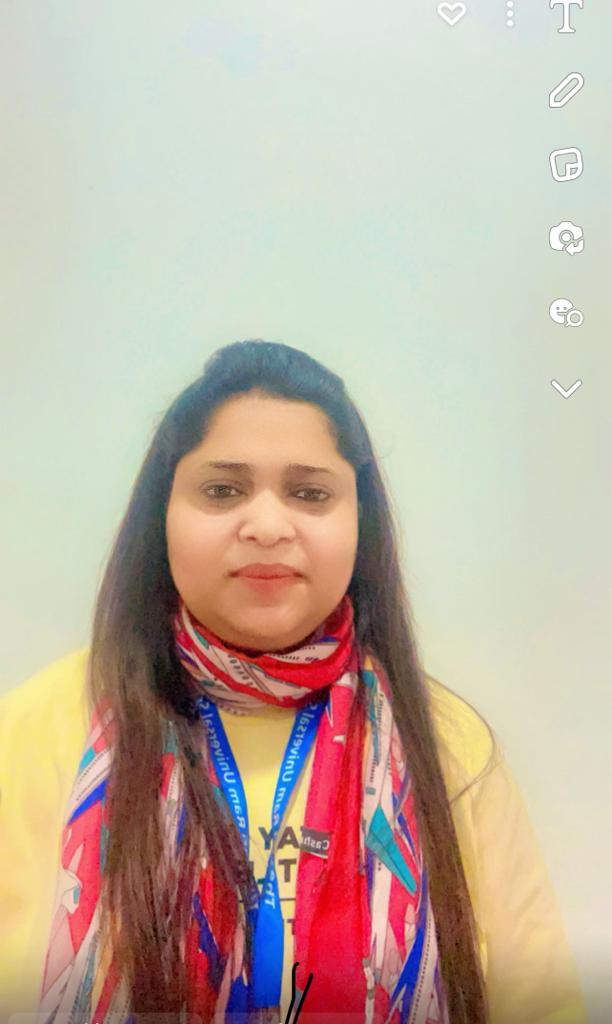
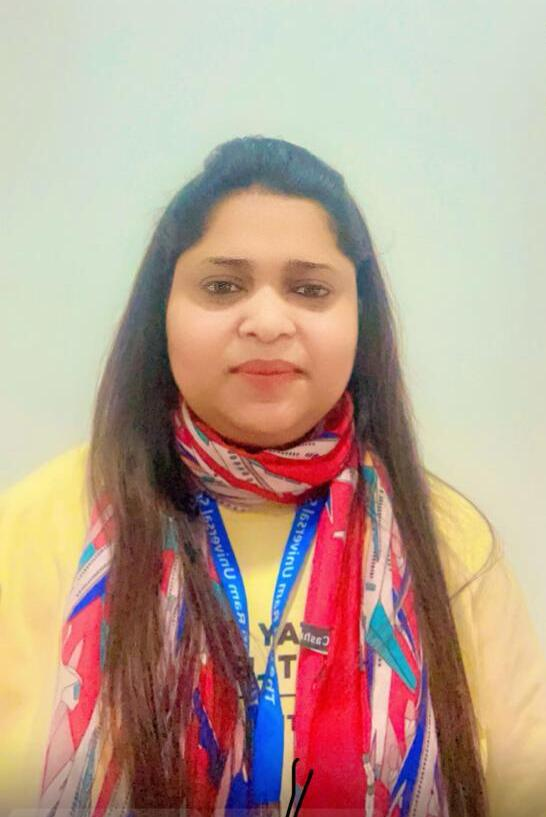
add description in founder section

diff --git a/index.html b/index.html
@@ -175,34 +175,39 @@
         #scrollUp:hover {
             color: #fff;
         }
-        #scrollUp, #back-top {
-  background: #3589f1;
-  height: 50px;
-  width: 50px;
-  right: 31px;
-  bottom: 18px;
-  position: fixed;
-  color: #fff;
-  font-size: 20px;
-  text-align: center;
-  border-radius: 50%;
-  line-height: 48px;
-  border: 2px solid transparent;
-  box-shadow: 0 0 10px 3px rgba(108, 98, 98, 0.2);
-}
 
-@media (max-width: 575px) {
-  /* line 433, ../../../sponDon TI/Running Project/259.Finance_HTML/assets/scss/_common.scss */
-  #scrollUp, #back-top {
-    right: 16px;
-  }
-}
+        #scrollUp,
+        #back-top {
+            background: #3589f1;
+            height: 50px;
+            width: 50px;
+            right: 31px;
+            bottom: 18px;
+            position: fixed;
+            color: #fff;
+            font-size: 20px;
+            text-align: center;
+            border-radius: 50%;
+            line-height: 48px;
+            border: 2px solid transparent;
+            box-shadow: 0 0 10px 3px rgba(108, 98, 98, 0.2);
+        }
 
-/* line 450, ../../../sponDon TI/Running Project/259.Finance_HTML/assets/scss/_common.scss */
-#scrollUp a i, #back-top a i {
-  display: block;
-  line-height: 50px;
-}
+        @media (max-width: 575px) {
+
+            /* line 433, ../../../sponDon TI/Running Project/259.Finance_HTML/assets/scss/_common.scss */
+            #scrollUp,
+            #back-top {
+                right: 16px;
+            }
+        }
+
+        /* line 450, ../../../sponDon TI/Running Project/259.Finance_HTML/assets/scss/_common.scss */
+        #scrollUp a i,
+        #back-top a i {
+            display: block;
+            line-height: 50px;
+        }
     </style>
     <link rel="stylesheet" href="https://cdnjs.cloudflare.com/ajax/libs/font-awesome/6.2.0/css/all.min.css"
         integrity="sha512-xh6O/CkQoPOWDdYTDqeRdPCVd1SpvCA9XXcUnZS2FmJNp1coAFzvtCN9BmamE+4aHK8yyUHUSCcJHgXloTyT2A=="
@@ -839,7 +844,7 @@
                                                             <li id="menu-item-1919"
                                                                 class="menu-item menu-item-type-post_type menu-item-object-page menu-item-home current_page_item  current-menu-item   menu-item-1919">
                                                                 <a href="index.html">Home</a>
-                                                                
+
                                                             </li>
                                                             <li id="menu-item-1385"
                                                                 class="menu-item menu-item-type-post_type menu-item-object-page page_item page-item-145  menu-item-1385">
@@ -858,12 +863,12 @@
                                                             <li id="menu-item-1790"
                                                                 class="menu-item menu-item-type-post_type menu-item-object-page  menu-item-1790">
                                                                 <a href="#">Programs</a>
-                                                                
+
                                                             </li>
                                                             <li id="menu-item-51"
                                                                 class="menu-item menu-item-type-post_type menu-item-object-page  menu-item-51">
                                                                 <a href="#">Resources</a>
-                                                                
+
                                                             </li>
                                                             <li id="menu-item-1847"
                                                                 class="menu-item menu-item-type-post_type menu-item-object-page megamenu-hide menu-item-1847">
@@ -2078,7 +2083,7 @@
                 &quot;items&quot;: 3                }                        }
                 }
     '>
-                                                                        
+
                                                                         <div class="item">
                                                                             <div class="team-card-three wow fadeInUp"
                                                                                 data-wow-duration='1500ms'
@@ -2087,7 +2092,8 @@
                                                                                 <div class="team-card-three__image">
                                                                                     <img decoding="async"
                                                                                         src="images/baljit_kaur.jpeg"
-                                                                                        alt="baljit_kaur" title="team-3-1"
+                                                                                        alt="baljit_kaur"
+                                                                                        title="team-3-1"
                                                                                         style="height: 400px;">
                                                                                 </div>
                                                                                 <!-- /.team-card-three__image -->
@@ -2098,7 +2104,8 @@
                                                                                     <!-- /.team-card-three__title -->
                                                                                     <p
                                                                                         class="team-card-three__normal__designation">
-                                                                                        Communication and Language Trainer </p>
+                                                                                        Communication and Language
+                                                                                        Trainer </p>
                                                                                     <!-- /.team-card-three__designation -->
                                                                                     <div
                                                                                         class="team-card-three__normal__social">
@@ -2114,7 +2121,8 @@
                                                                                     <!-- /.team-card-three__title -->
                                                                                     <p
                                                                                         class="team-card-three__designation">
-                                                                                        Communication and Language Trainer
+                                                                                        Communication and Language
+                                                                                        Trainer
                                                                                     </p>
                                                                                     <p
                                                                                         class="team-card-three__designation">
@@ -2145,7 +2153,8 @@
                                                                                 <div class="team-card-three__image">
                                                                                     <img decoding="async"
                                                                                         src="images/kunwaldeep_kaur.jpeg"
-                                                                                        alt="kunwaldeep_kaur" title="team-3-2"
+                                                                                        alt="kunwaldeep_kaur"
+                                                                                        title="team-3-2"
                                                                                         style="height: 400px;">
                                                                                 </div>
                                                                                 <!-- /.team-card-three__image -->
@@ -2158,7 +2167,7 @@
                                                                                         class="team-card-three__normal__designation">
                                                                                         Language and Fine Motor Trainer
                                                                                     </p>
-                                                                                    
+
                                                                                     <!-- /.team-card-three__designation -->
                                                                                     <div
                                                                                         class="team-card-three__normal__social">
@@ -2174,7 +2183,8 @@
                                                                                     <!-- /.team-card-three__title -->
                                                                                     <p
                                                                                         class="team-card-three__designation">
-                                                                                        Language and Fine Motor Trainer </p>
+                                                                                        Language and Fine Motor Trainer
+                                                                                    </p>
                                                                                     <p
                                                                                         class="team-card-three__designation">
                                                                                         Special Needs Do </p>
@@ -2206,7 +2216,8 @@
                                                                                 <div class="team-card-three__image">
                                                                                     <img decoding="async"
                                                                                         src="images/leena_kapoor.jpeg"
-                                                                                        alt="leena_kapoor" title="team-3-3"
+                                                                                        alt="leena_kapoor"
+                                                                                        title="team-3-3"
                                                                                         style="height: 400px;">
                                                                                 </div>
                                                                                 <!-- /.team-card-three__image -->
@@ -2217,8 +2228,9 @@
                                                                                     <!-- /.team-card-three__title -->
                                                                                     <p
                                                                                         class="team-card-three__normal__designation">
-                                                                                        Writing and Reading Skills Trainer</p>
-                                                                                    
+                                                                                        Writing and Reading Skills
+                                                                                        Trainer</p>
+
                                                                                     <!-- /.team-card-three__designation -->
                                                                                     <div
                                                                                         class="team-card-three__normal__social">
@@ -2234,7 +2246,8 @@
                                                                                     <!-- /.team-card-three__title -->
                                                                                     <p
                                                                                         class="team-card-three__designation">
-                                                                                        Writing and Reading Skills Trainer</p>
+                                                                                        Writing and Reading Skills
+                                                                                        Trainer</p>
                                                                                     <p
                                                                                         class="team-card-three__designation">
                                                                                         BA. B.ED</p>
@@ -2266,7 +2279,8 @@
                                                                                 <div class="team-card-three__image">
                                                                                     <img decoding="async"
                                                                                         src="images/kiran_kaur.jpeg"
-                                                                                        alt="kiran_kaur" title="team-3-2"
+                                                                                        alt="kiran_kaur"
+                                                                                        title="team-3-2"
                                                                                         style="height: 400px;">
                                                                                 </div>
                                                                                 <!-- /.team-card-three__image -->
@@ -2322,7 +2336,8 @@
                                                                                 <div class="team-card-three__image">
                                                                                     <img decoding="async"
                                                                                         src="images/samita_jain.jpeg"
-                                                                                        alt="samita_jain" title="team-3-3"
+                                                                                        alt="samita_jain"
+                                                                                        title="team-3-3"
                                                                                         style="height: 400px;">
                                                                                 </div>
                                                                                 <!-- /.team-card-three__image -->
@@ -2385,66 +2400,62 @@
                 </div>
             </section>
             <!-- about founder -->
-            <div class="elementor-element elementor-element-5a2bf59 elementor-widget elementor-widget-kidearn-team" data-id="5a2bf59" data-element_type="widget" data-widget_type="kidearn-team.default">
-				<div class="elementor-widget-container">
-			
+            <div class="elementor-element elementor-element-5a2bf59 elementor-widget elementor-widget-kidearn-team"
+                data-id="5a2bf59" data-element_type="widget" data-widget_type="kidearn-team.default">
+                <div class="elementor-widget-container">
 
-    <section class="team-details">
-        <div class="container">
-            <div class="team-details__inner">
-                <div class="row gutter-y-60">
-                    <div class="col-lg-5">
-                        <div class="team-details__image">
-                            <img decoding="async" src="images/shivani_mittal.jpeg" alt="shivani_mittal" title="Shivani Mittal">                        </div><!-- /.team-details__image -->
-                    </div><!-- /.col-lg-5 -->
-                    <div class="col-lg-7">
-                        <div class="team-details__content">
-                            <div class="sec-title text-left">
-                                <h6 class="sec-title__tagline">Founder</h6><h3 class="sec-title__title">Hello, i’m Shivani Mittal</h3>                            </div><!-- /.sec-title -->
-                            <p class="team-details__text">There are many variations of passages of Lorem Ipsum avagtilable, but the majority have suffered alteration in some form, by injected hudfdfmour, or randomised words which don't look</p><p class="team-details__highlight">The generated Lorem Ipsum is therefore always free from repetition, injected humour, or</p>                            <ul class="list-unstyled team-details__list ml-0">
-    <li>
-        Experience: <span>03 Years</span>
-    </li>
-    <li>
-        Email: <a href="mailto:willam.kidearn@envato.com">willam.kidearn@envato.com</a>
-    </li>
-    <li>
-        Phone: <a href="tel:+684555-0102">+(684) 555-0102</a>
-    </li>
-</ul>                                                            <div class="team-certificates-one__progress">
-                                    <h4 class="team-certificates-one__progress__title">Art</h4>
-                                    <div class="team-certificates-one__progress__bar">
-                                        <div class="team-certificates-one__progress__inner count-bar counted" data-percent="89%" style="width: 89%;">
-                                            <div class="team-certificates-one__progress__number count-text">89%</div>
-                                        </div>
-                                    </div>
-                                </div><!-- /.skills-item -->
-                                                            <div class="team-certificates-one__progress">
-                                    <h4 class="team-certificates-one__progress__title">Development</h4>
-                                    <div class="team-certificates-one__progress__bar">
-                                        <div class="team-certificates-one__progress__inner count-bar counted" data-percent="60%" style="width: 60%;">
-                                            <div class="team-certificates-one__progress__number count-text">60%</div>
-                                        </div>
-                                    </div>
-                                </div><!-- /.skills-item -->
-                                                        <div class="team-details__social">
-                                                                    <a href="https://www.facebook.com">
-                                        <i aria-hidden="true" class="  fab fa-facebook-f"></i>                                    </a>
-                                                                    <a href="https://www.twitter.com">
-                                        <i aria-hidden="true" class="  fab fa-twitter"></i>                                    </a>
-                                                                    <a href="https://www.pinterest.com">
-                                        <i aria-hidden="true" class="  fab fa-pinterest-p"></i>                                    </a>
-                                                                    <a href="https://www.instagram.com">
-                                        <i aria-hidden="true" class="  fab fa-instagram"></i>                                    </a>
-                                                            </div><!-- /.team-details__social -->
-                        </div><!-- /.team-details__content -->
-                    </div><!-- /.col-lg-7 -->
-                </div><!-- /.row -->
-            </div><!-- /.team-details__inner -->
-        </div><!-- /.container -->
-    </section><!-- /.team-details -->
-		</div>
-				</div>
+
+                    <section class="team-details">
+                        <div class="container">
+                            <div class="team-details__inner">
+                                <div class="row gutter-y-60">
+                                    <div class="col-lg-5">
+                                        <div class="team-details__image">
+                                            <img decoding="async" src="images/shivani_mittal.jpeg" alt="shivani_mittal"
+                                                title="Shivani Mittal" style="height:550px">
+                                        </div><!-- /.team-details__image -->
+                                    </div><!-- /.col-lg-5 -->
+                                    <div class="col-lg-7">
+                                        <div class="team-details__content">
+                                            <div class="sec-title text-left">
+                                                <h6 class="sec-title__tagline">Founder</h6>
+                                                <h3 class="sec-title__title">Hello, i’m Shivani Mittal</h3>
+                                            </div><!-- /.sec-title -->
+                                            <p class="team-details__text">An Institute for special need includes
+                                                learning disability,Austim,ADHD,DOwn Syndrome,intellectual
+                                                disabilities,strengthening fine motor skills and gross motor skills</p>
+                                            <p class="team-details__highlight">Social interaction classes,group
+                                                sessions,Social stories and complete HOLISTIC Approach is being is being
+                                                followed on daily basis. </p>
+                                            <ul class="list-unstyled team-details__list ml-0">
+                                                
+                                                <li>
+                                                    Email: <a
+                                                        href="mailto:willam.kidearn@envato.com">willam.kidearn@envato.com</a>
+                                                </li>
+                                                <li>
+                                                    Phone: <a href="tel:+684555-0102">+(684) 555-0102</a>
+                                                </li>
+                                            </ul>
+                                            
+                                            <div class="team-details__social">
+                                                <a href="https://www.facebook.com">
+                                                    <i aria-hidden="true" class="  fab fa-facebook-f"></i> </a>
+                                                <a href="https://www.twitter.com">
+                                                    <i aria-hidden="true" class="  fab fa-twitter"></i> </a>
+                                                <a href="https://www.pinterest.com">
+                                                    <i aria-hidden="true" class="  fab fa-pinterest-p"></i> </a>
+                                                <a href="https://www.instagram.com">
+                                                    <i aria-hidden="true" class="  fab fa-instagram"></i> </a>
+                                            </div><!-- /.team-details__social -->
+                                        </div><!-- /.team-details__content -->
+                                    </div><!-- /.col-lg-7 -->
+                                </div><!-- /.row -->
+                            </div><!-- /.team-details__inner -->
+                        </div><!-- /.container -->
+                    </section><!-- /.team-details -->
+                </div>
+            </div>
             <section
                 class="elementor-section elementor-top-section elementor-element elementor-element-029abba elementor-section-full_width elementor-section-height-default elementor-section-height-default"
                 data-id="029abba" data-element_type="section">
@@ -4041,7 +4052,7 @@
     <script
         src="https://bracketweb.com/kidearnwp/wp-content/plugins/woocommerce/assets/js/jquery-blockui/jquery.blockUI.min.js?ver=2.7.0-wc.8.2.1"
         id="jquery-blockui-js"></script>
-        <script src="scrollup.js"></script>
+    <script src="scrollup.js"></script>
     <script id="wc-add-to-cart-js-extra">
         var wc_add_to_cart_params = {
             "ajax_url": "\/kidearnwp\/wp-admin\/admin-ajax.php",
